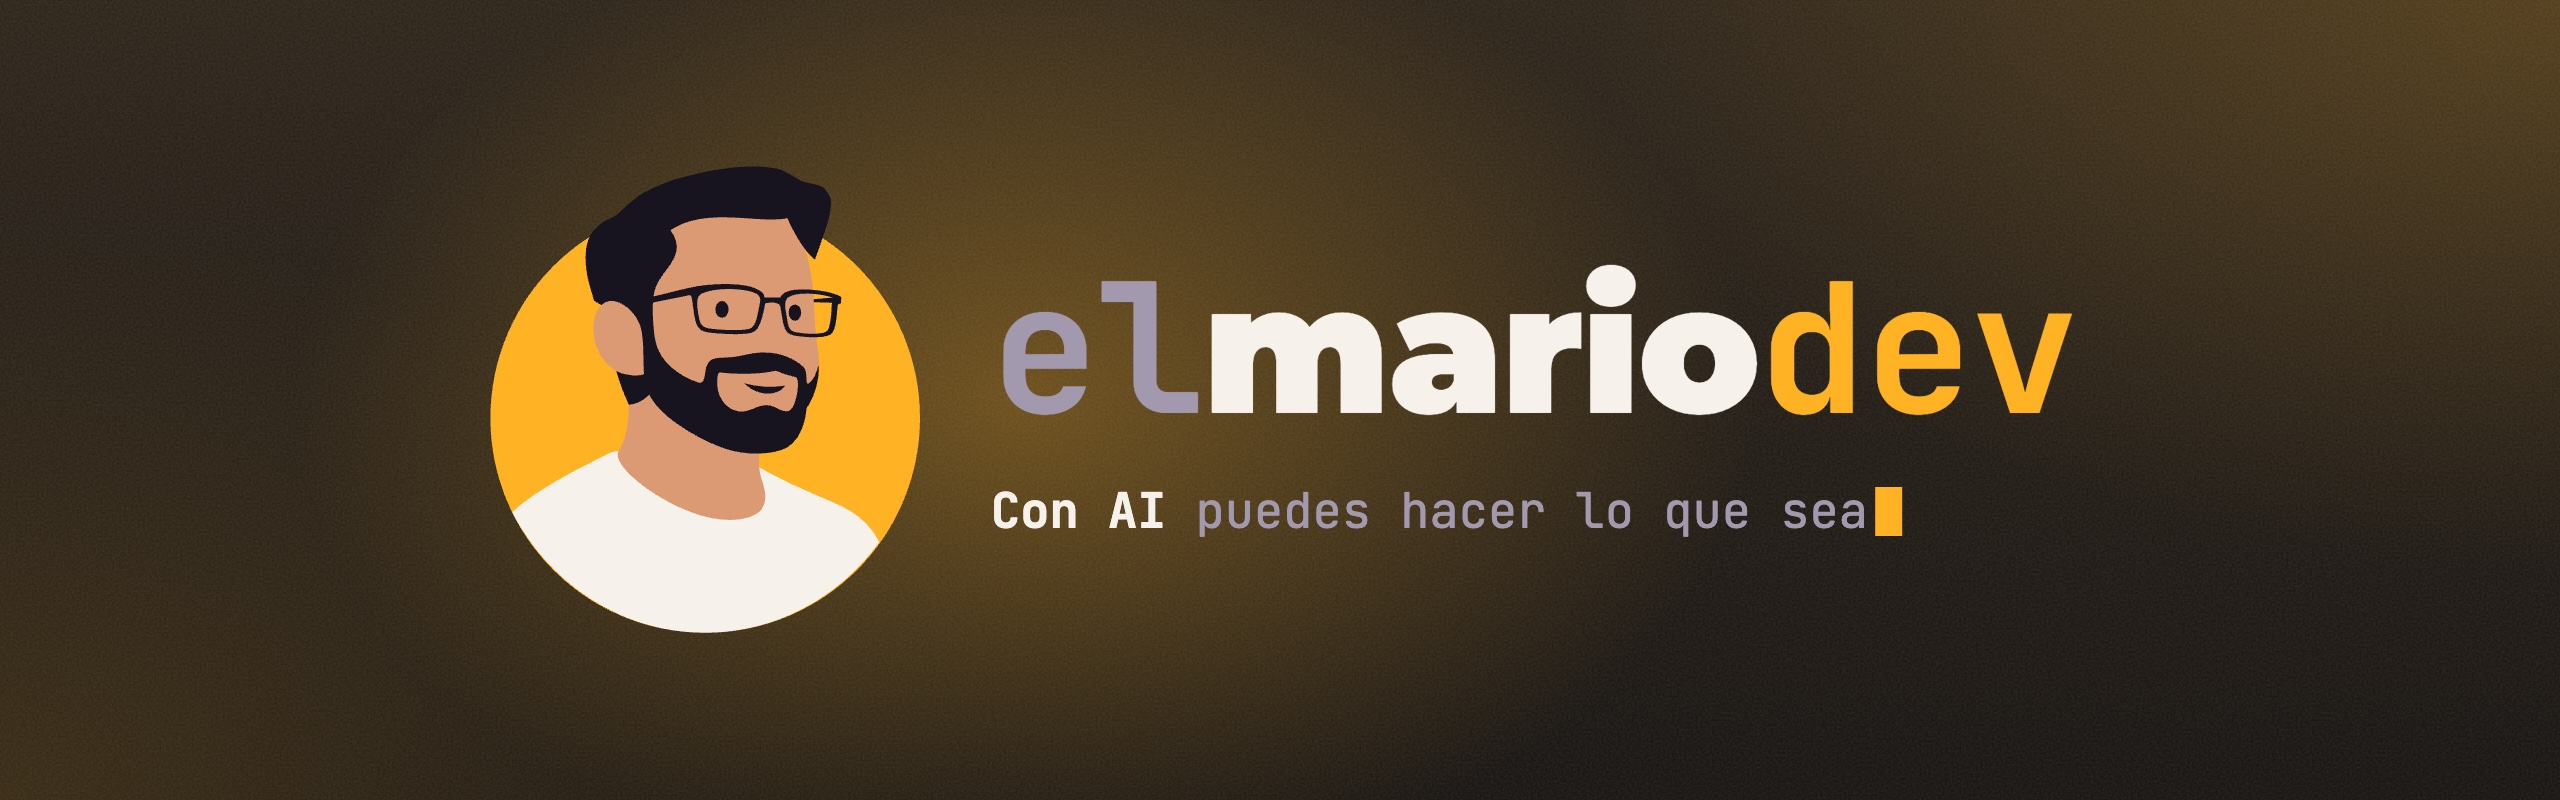
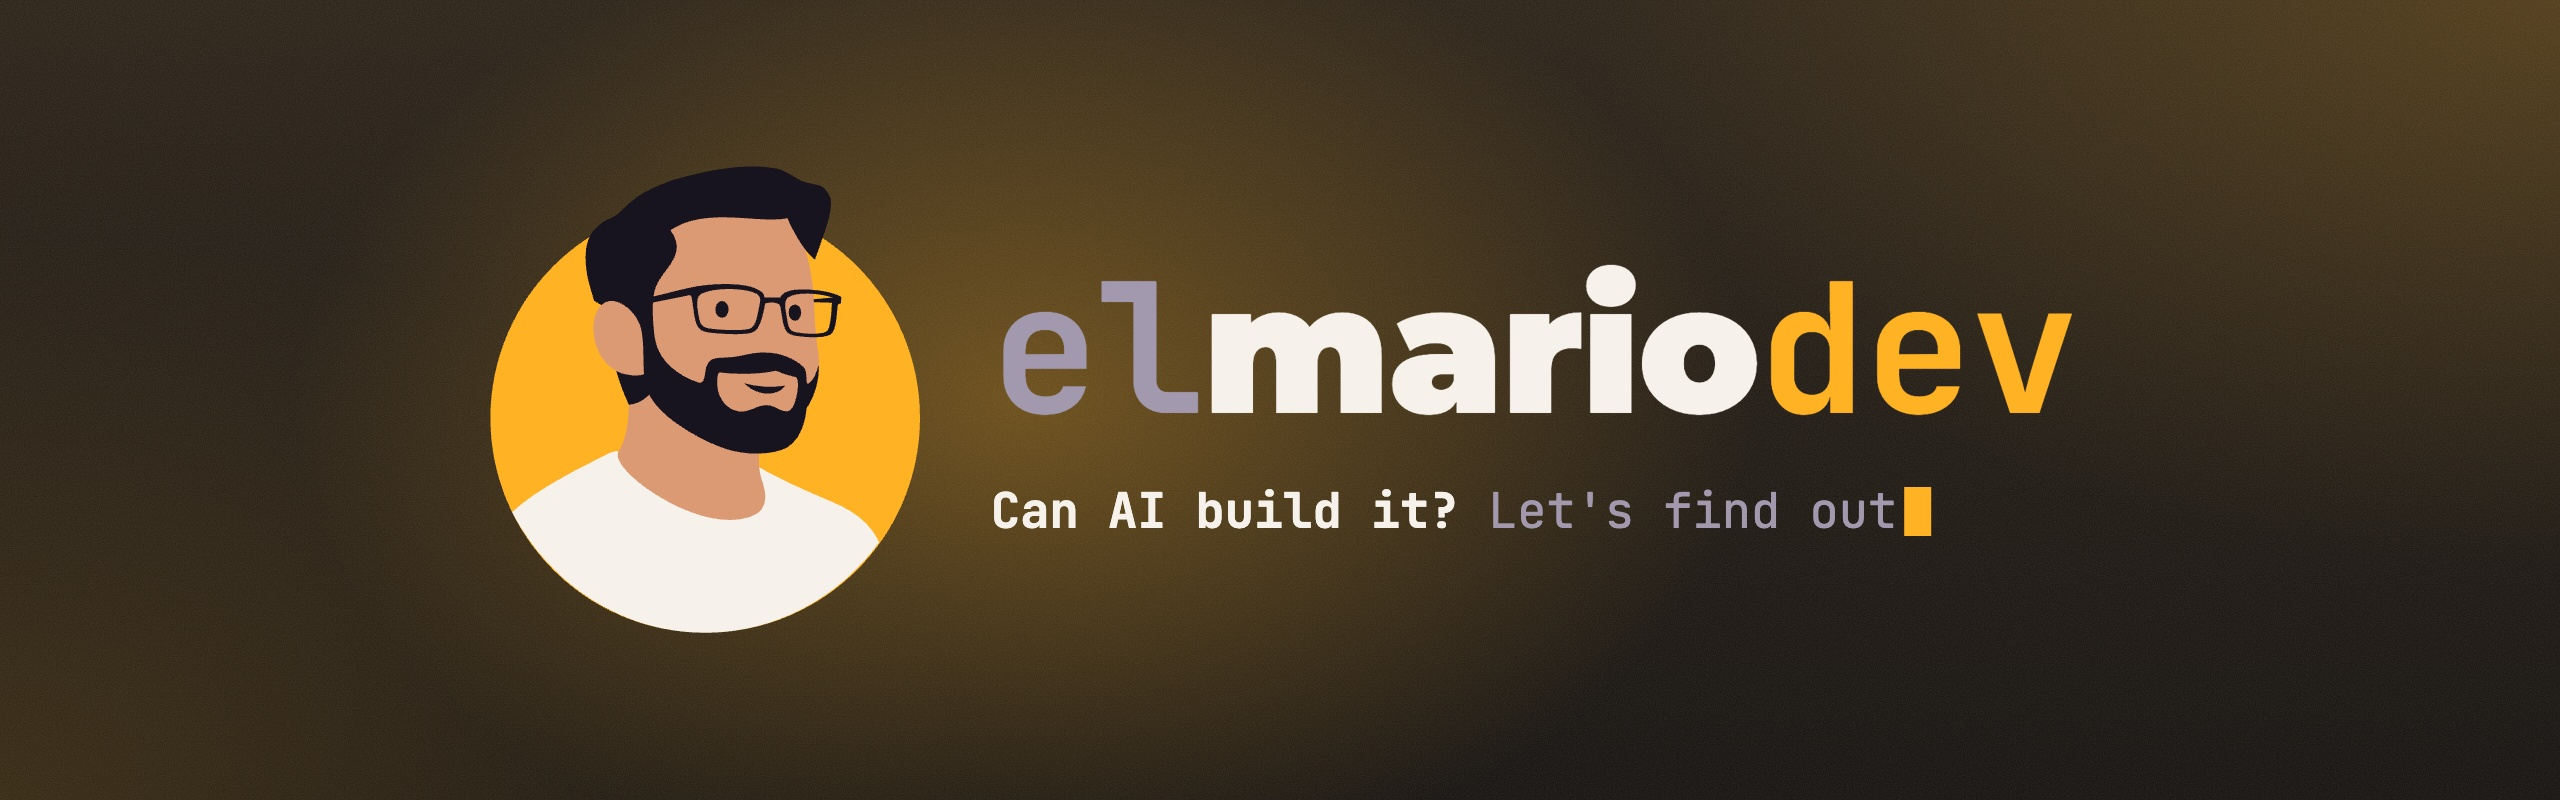
Use the new tagline: Can AI build it? Let's find out
Drop the claim about testing every new model and the repeated 'breaks on camera'.

Changed region(s): [[0.4688, 0.5938, 0.7812, 0.6875]]

diff --git a/README.md b/README.md
@@ -1,6 +1,6 @@
 <div align="center">
 
-<img src="assets/banner.jpg" width="100%" alt="elmariodev: Con AI puedes hacer lo que sea">
+<img src="assets/banner.jpg" width="100%" alt="elmariodev: Can AI build it? Let's find out">
 
 ### I make things with AI. Games, tools, whatever I can think of.
 
@@ -20,8 +20,7 @@ Some of it works. Some of it breaks on camera. You get to see both.
 ```console
 $ elmariodev --now
 building   small games, one prompt at a time
-testing    every new model the week it drops
-breaking   things on camera, then fixing them
+filming    the builds for YouTube, in Spanish
 commits    2,100+ last year, most with an agent next to me
 ```
 
@@ -38,6 +37,6 @@ commits    2,100+ last year, most with an agent next to me
 [YouTube](https://www.youtube.com/@elmariodev) · [TikTok](https://www.tiktok.com/@elmariodev) · [Instagram](https://www.instagram.com/elmariodev) · [X](https://x.com/elmariodev) · [LinkedIn](https://www.linkedin.com/in/elmariodev)
 
 <img src="assets/logo-small.svg" width="40" alt=""><br>
-**Con AI puedes hacer lo que sea.**
+**Can AI build it? Let's find out**
 
 </div>
